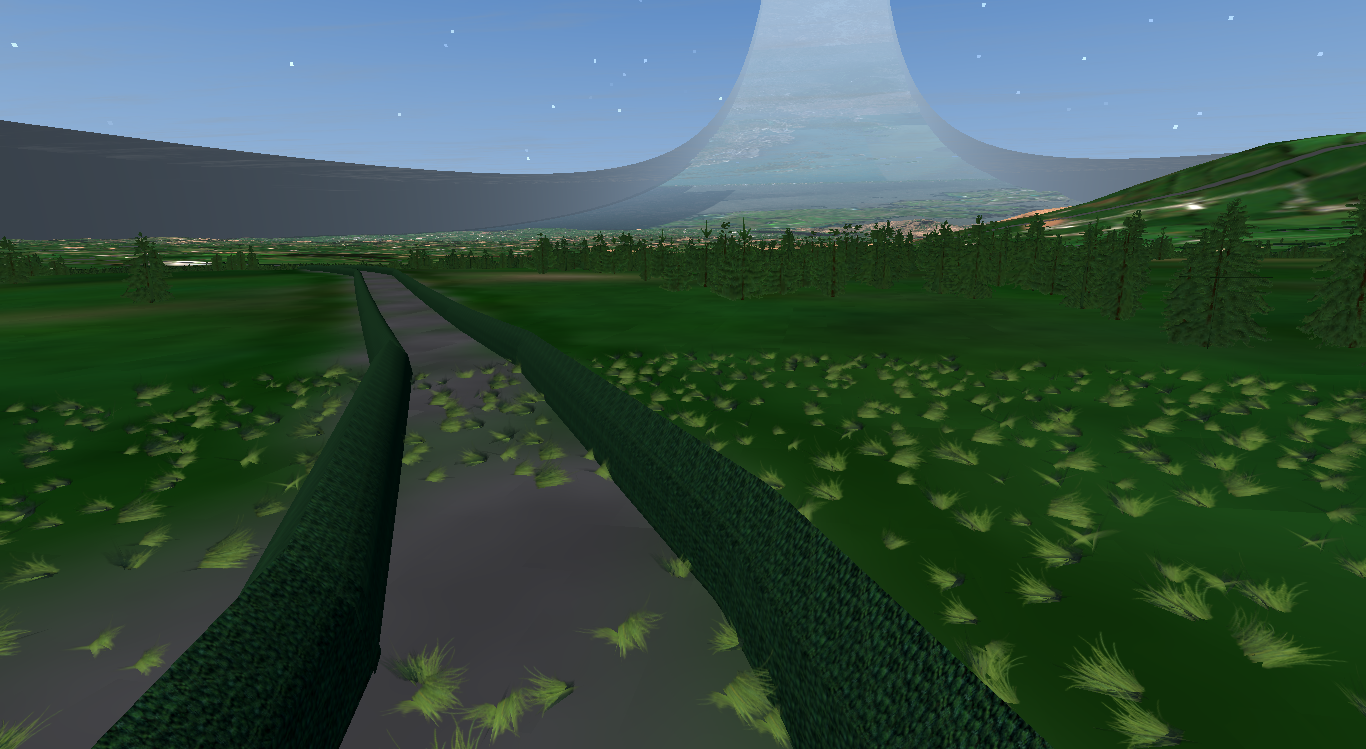
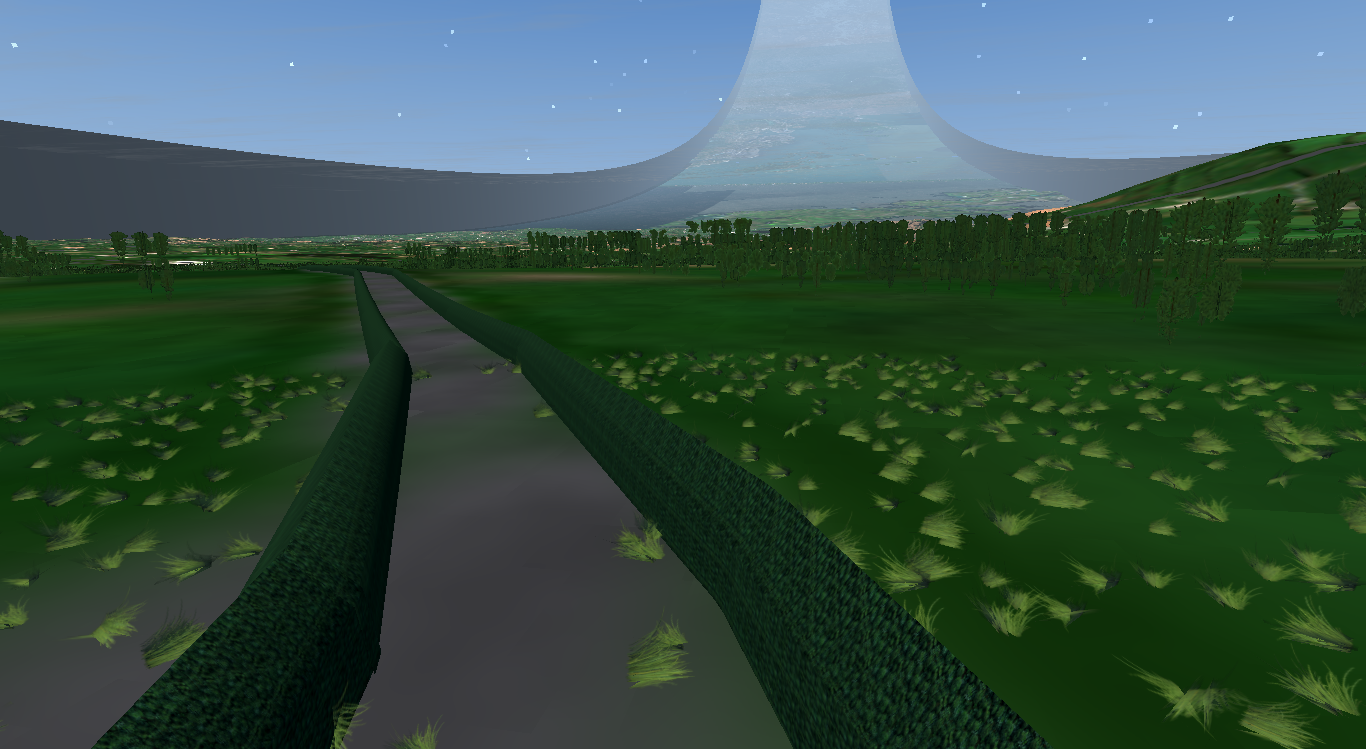
perf(veg): 700k -> 316k triangles by giving the fir pack a real billboard tier
Measured the budget per system instead of aiming at whatever looked busiest:

  trees     493,914   71%
  far band   96,000
  terrain    55,296   (108 CDLOD nodes)
  hedges     27,912
  grass      11,656
  buildings   6,424

Trees at 71%, and 24,019 of the 24,037 were ALREADY in the billboard tier -- so
that tier's mesh cost ~16 triangles rather than the 2 the name implies. An
artist LOD chain bottoms out at "very simple mesh"; it does not bottom out at a
quad, and I had assumed it did for as long as the tree system has existed.

The last rung is now a generated crossed billboard -- 4 triangles, inheriting
the pack's own foliage material so it still reads as the same tree at range.
Exactly the fix the generated species needed an hour earlier, applied to the
imported pack that needed it more.

  trees  493,914 -> 109,450
  frame  700,226 -> 315,762    55% cut

Also adds the per-system breakdown to the shot harness, so the next cut is
aimed at a number rather than an impression. Next largest is the far band at
96,000, which is 3000x16 quads of backdrop nobody stands on.

diff --git a/TASKS.md b/TASKS.md
@@ -36,7 +36,7 @@ Rules:
       does not help. There is no teak, palm, fynbos or birch in `assets/`, which means Java, Cape
       and Lofoten are still tinted Irish firs. This needs downloading models, not code. Candidates:
       a broadleaf, a palm, a low scrub bush.
-- [ ] **Triangle budget.** 727k tris / 13 fps at ground level in the home patch, trees dominating
+- [x] **Triangle budget.** 700k -> 316k. Trees were 71%; the fir pack's billboard tier cost ~16 tris, now 4. Next largest is the far band at 96k. Was: 727k / 13 fps, trees dominating
       (24k instances, 24k billboards). Profile per system, then cut. Driving at 13 fps is not fun.
 - [ ] **Rolling wheels.** The car's wheels do not turn or steer. Also suspension travel over the
       terrain it now follows correctly.
